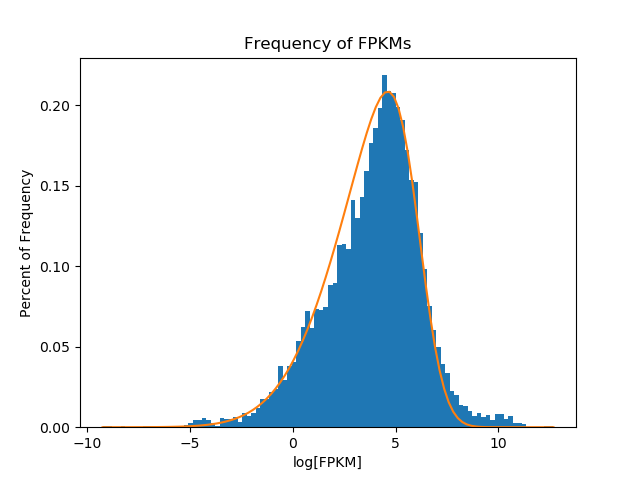
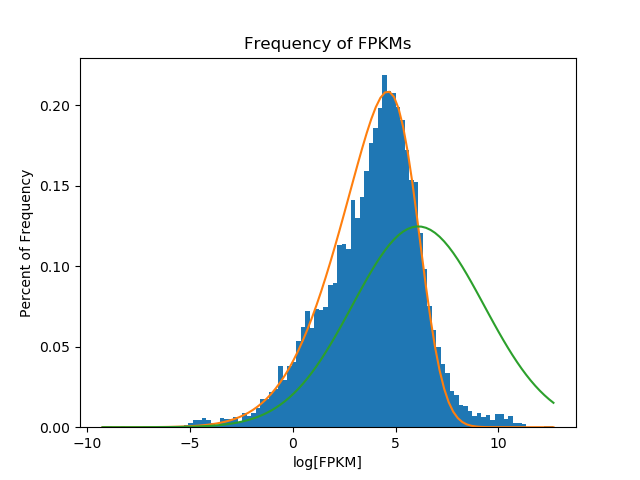
fixed 1

diff --git a/day4-lunch/exercise1.py b/day4-lunch/exercise1.py
@@ -23,12 +23,14 @@ scale = float(sys.argv[4])
 
 x = np.linspace(my_data.min(), my_data.max(), 100)
 y = stats.skewnorm.pdf(x,a,center,scale)
+y_norm = stats.norm.pdf(x,center,scale)
 
  
 fig, ax = plt.subplots()
 
 ax.hist(my_data,bins = 100,density = True)
 ax.plot(x,y)
+ax.plot(x,y_norm)
 ax.set_title("Frequency of FPKMs")
 ax.set_xlabel("log[FPKM]")
 ax.set_ylabel("Percent of Frequency")
